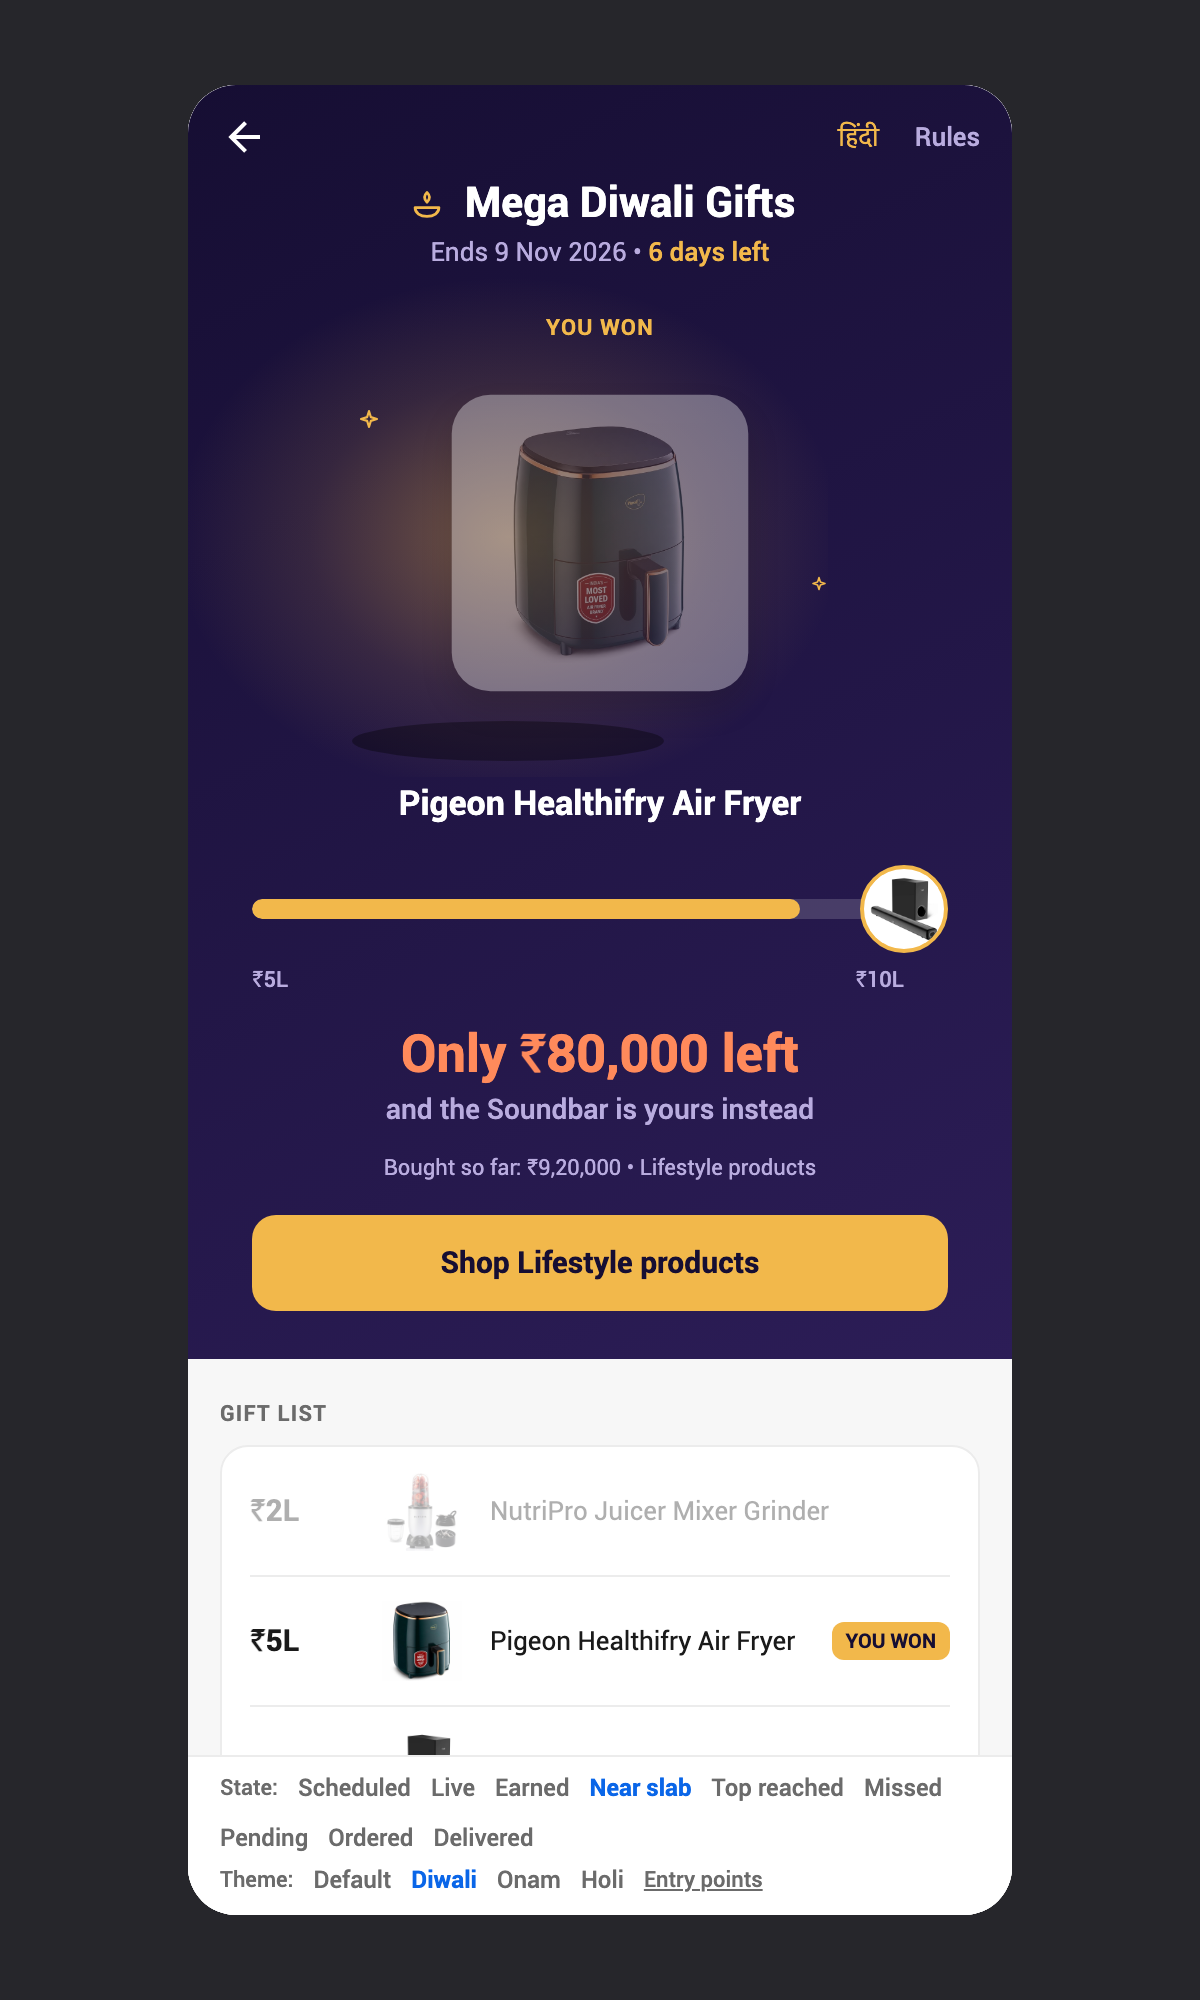
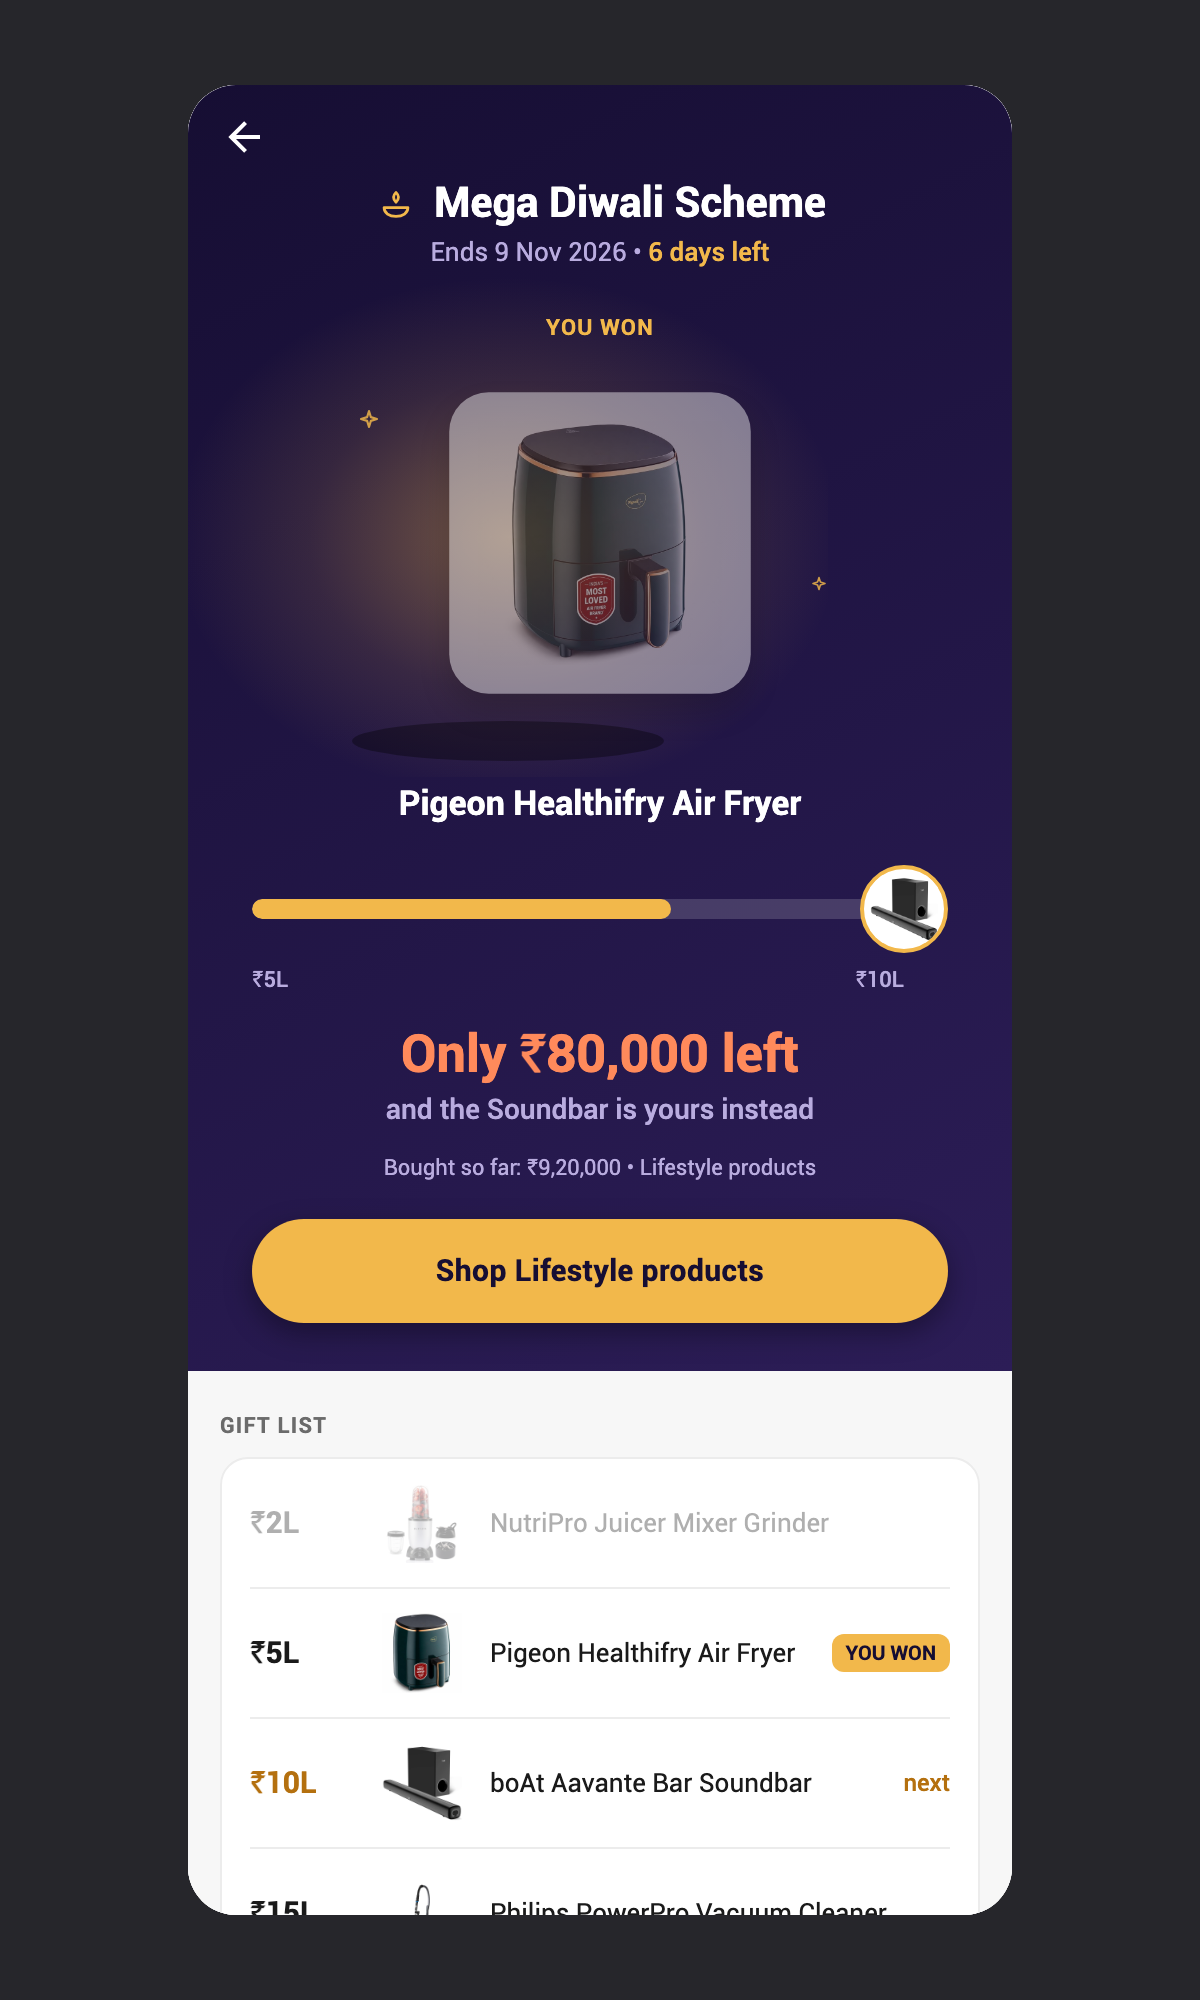
Deep-link Completed tab; static render under webdriver; exploration screenshots
- ?tab=1 opens the Completed tab (matches the ship list).
- SchemeCard renders its final state under navigator.webdriver so headless
  captures never race the entrance and fill animations.
- exploration-screenshots/: 19 captures covering both tabs, four list
  scenarios, all nine detail states, and the four themes.

diff --git a/src/gifts/solv.js b/src/gifts/solv.js
@@ -90,6 +90,10 @@ export function GiftThumb({ gift, size = 40, accent = SOLV.blue }) {
 
 const clamp = (v, lo, hi) => Math.max(lo, Math.min(hi, v));
 
+// Headless capture (navigator.webdriver) renders the final state directly: the
+// screenshot pipeline must not race the entrance and fill animations.
+const STATIC = typeof navigator !== 'undefined' && navigator.webdriver === true;
+
 // One scheme card. `card` comes from solvSchemeCard():
 //   theme, title, line, lineTone: 'default'|'accent'|'good'|'urgent'|'muted'
 //   chip: { text, tone: 'time'|'good'|'muted' }
@@ -137,14 +141,16 @@ export function SchemeCard({ card, onPress, index = 0 }) {
   const trackW = Math.max(0, barW - BAR_END_W - BAR_GAP);
 
   // Motion: the card fades in with a small rise; the fill sweeps to its value.
-  const enter = useRef(new Animated.Value(0)).current;
-  const fillAnim = useRef(new Animated.Value(0)).current;
+  const enter = useRef(new Animated.Value(STATIC ? 1 : 0)).current;
+  const fillAnim = useRef(new Animated.Value(STATIC ? 1 : 0)).current;
   useEffect(() => {
+    if (STATIC) return;
     Animated.timing(enter, { toValue: 1, duration: 320, delay: index * 70, easing: Easing.out(Easing.cubic), useNativeDriver: true }).start();
   }, [enter, index]);
   useEffect(() => {
+    if (STATIC) return;
     if (barW > 0) {
-      Animated.timing(fillAnim, { toValue: pct, duration: 650, delay: index * 70 + 150, easing: Easing.out(Easing.cubic), useNativeDriver: false }).start();
+      Animated.timing(fillAnim, { toValue: 1, duration: 650, delay: index * 70 + 150, easing: Easing.out(Easing.cubic), useNativeDriver: false }).start();
     }
   }, [barW, pct, fillAnim, index]);
 
@@ -223,7 +229,7 @@ export function SchemeCard({ card, onPress, index = 0 }) {
                         styles.barFill,
                         {
                           backgroundColor: fill,
-                          width: fillAnim.interpolate({ inputRange: [0, 1], outputRange: ['0%', '100%'] }),
+                          width: fillAnim.interpolate({ inputRange: [0, 1], outputRange: ['0%', `${pct * 100}%`] }),
                         },
                       ]}
                     />

diff --git a/app/solv-schemes/index.js b/app/solv-schemes/index.js
@@ -130,17 +130,25 @@ export default function SolvSchemes() {
   const view = VIEWS[viewKey];
 
   const pager = useRef(null);
-  const [tab, setTab] = useState(0);
+  const initialTab = Number(params.tab) === 1 ? 1 : 0;
+  const [tab, setTab] = useState(initialTab);
   const [pageW, setPageW] = useState(0);
   const goToTab = (i) => {
     setTab(i);
     pager.current?.scrollTo({ x: i * pageW, animated: true });
   };
 
+  // ?tab=1 deep-links the Completed tab; the pager can only honour it once measured.
+  useEffect(() => {
+    if (pageW > 0 && initialTab === 1) {
+      pager.current?.scrollTo({ x: pageW, animated: false });
+    }
+  }, [pageW, initialTab]);
+
   // A view change re-renders the pager content; snap back to the Running tab.
   useEffect(() => {
-    setTab(0);
-    pager.current?.scrollTo({ x: 0, animated: false });
+    setTab(initialTab);
+    pager.current?.scrollTo({ x: initialTab * pageW, animated: false });
   }, [viewKey]);
 
   const renderList = (rows, emptyLabel) => (
